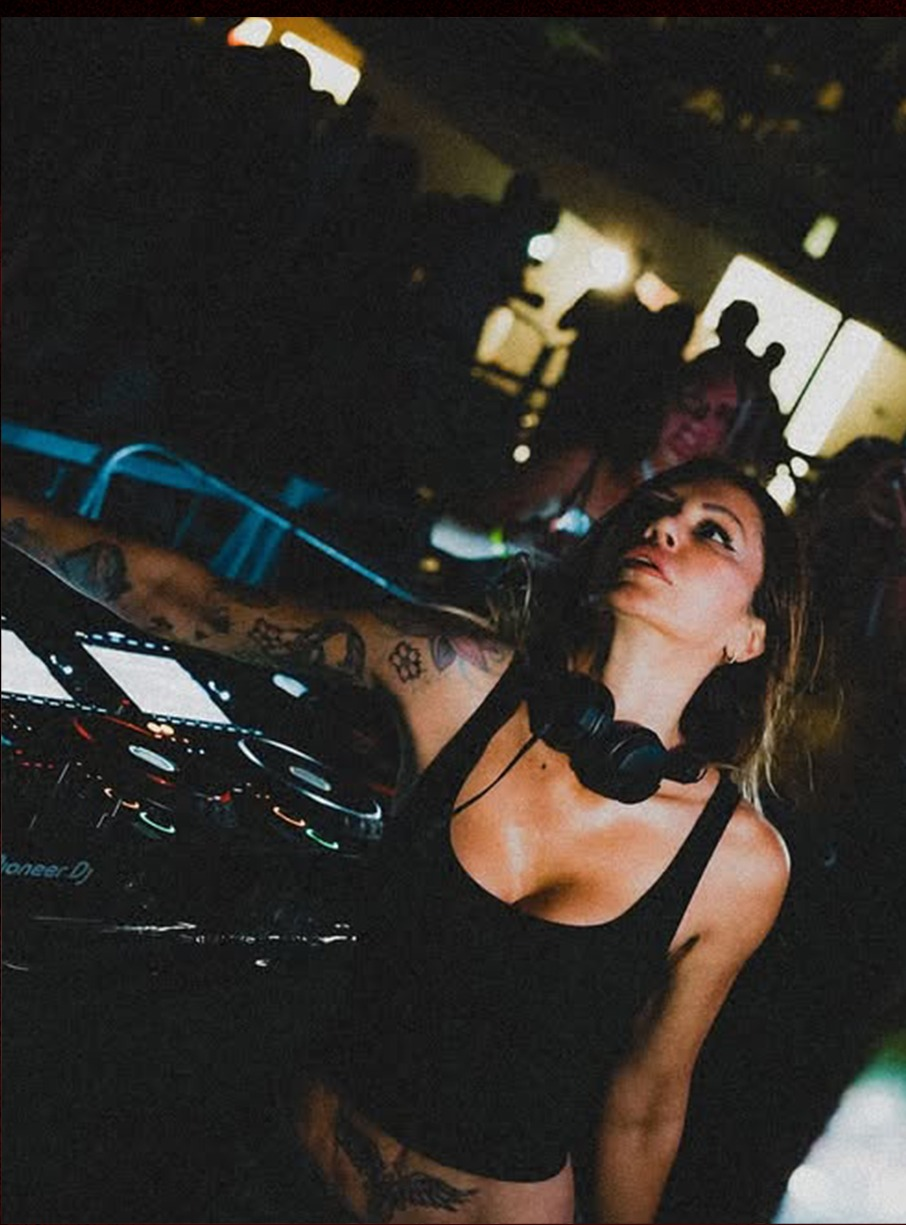
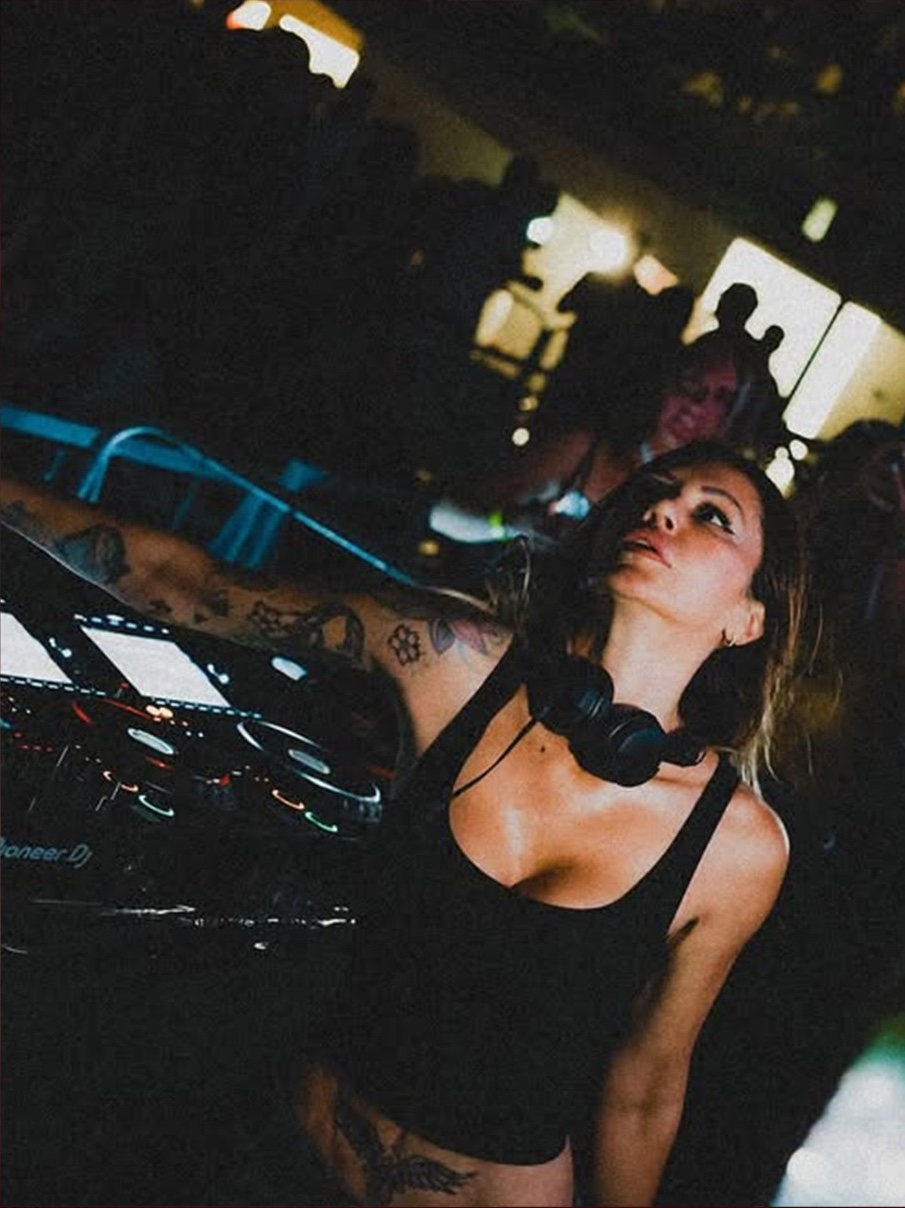
Home carosello: foto senza fasce nere né sovrapposizioni
8 foto ritagliate alla sola area pulita (cornici nere, fasce grigie e spicchi
di foto adiacenti ereditati dal clone) e larghezze delle slide ricalcolate
sulle nuove proporzioni: le foto ora si toccano senza spazi.

diff --git a/index.html b/index.html
@@ -818,34 +818,34 @@ section.bg-white .grid a.group:hover img{transform:scale(1.05)}
            }">
       <div class="embla__viewport">
         <div class="embla__container flex" style="transform: translate3d(-451.97px, 0px, 0px);">
-<div class="embla__slide" style="--width-mobile: 739px; --width-desktop: 1003px;">
+<div class="embla__slide" style="--width-mobile: 708px; --width-desktop: 961px;">
   <img src="/harmonia/foto/crowd-2.jpg" alt="Harmonia" class="h-full w-auto object-cover" loading="eager" decoding="async">
 </div>
-<div class="embla__slide" style="--width-mobile: 612px; --width-desktop: 831px;">
+<div class="embla__slide" style="--width-mobile: 623px; --width-desktop: 845px;">
   <img src="/harmonia/foto/people-1.jpg" alt="Harmonia" class="h-full w-auto object-cover" loading="eager" decoding="async">
 </div>
-<div class="embla__slide" style="--width-mobile: 652px; --width-desktop: 885px;">
+<div class="embla__slide" style="--width-mobile: 535px; --width-desktop: 726px;">
   <img src="/harmonia/foto/people-2.jpg" alt="Harmonia" class="h-full w-auto object-cover" loading="eager" decoding="async">
 </div>
-<div class="embla__slide" style="--width-mobile: 517px; --width-desktop: 702px;">
+<div class="embla__slide" style="--width-mobile: 524px; --width-desktop: 712px;">
   <img src="/harmonia/foto/deborah-de-luca.jpg" alt="Harmonia" class="h-full w-auto object-cover" loading="eager" decoding="async">
 </div>
-<div class="embla__slide" style="--width-mobile: 550px; --width-desktop: 746px;">
+<div class="embla__slide" style="--width-mobile: 433px; --width-desktop: 588px;">
   <img src="/harmonia/foto/people-7.jpg" alt="Harmonia" class="h-full w-auto object-cover" loading="eager" decoding="async">
 </div>
 <div class="embla__slide" style="--width-mobile: 590px; --width-desktop: 801px;">
   <img src="/harmonia/foto/crowd-1.jpg" alt="Harmonia" class="h-full w-auto object-cover" loading="eager" decoding="async">
 </div>
-<div class="embla__slide" style="--width-mobile: 517px; --width-desktop: 702px;">
+<div class="embla__slide" style="--width-mobile: 518px; --width-desktop: 703px;">
   <img src="/harmonia/foto/andrea-oliva.jpg" alt="Harmonia" class="h-full w-auto object-cover" loading="eager" decoding="async">
 </div>
-<div class="embla__slide" style="--width-mobile: 604px; --width-desktop: 820px;">
+<div class="embla__slide" style="--width-mobile: 619px; --width-desktop: 840px;">
   <img src="/harmonia/foto/people-3.jpg" alt="Harmonia" class="h-full w-auto object-cover" loading="eager" decoding="async">
 </div>
-<div class="embla__slide" style="--width-mobile: 541px; --width-desktop: 735px;">
+<div class="embla__slide" style="--width-mobile: 542px; --width-desktop: 735px;">
   <img src="/harmonia/foto/people-5.jpg" alt="Harmonia" class="h-full w-auto object-cover" loading="eager" decoding="async">
 </div>
-<div class="embla__slide" style="--width-mobile: 517px; --width-desktop: 702px;">
+<div class="embla__slide" style="--width-mobile: 525px; --width-desktop: 712px;">
   <img src="/harmonia/foto/nic-fanciulli.jpg" alt="Harmonia" class="h-full w-auto object-cover" loading="eager" decoding="async">
 </div>
 </div>
